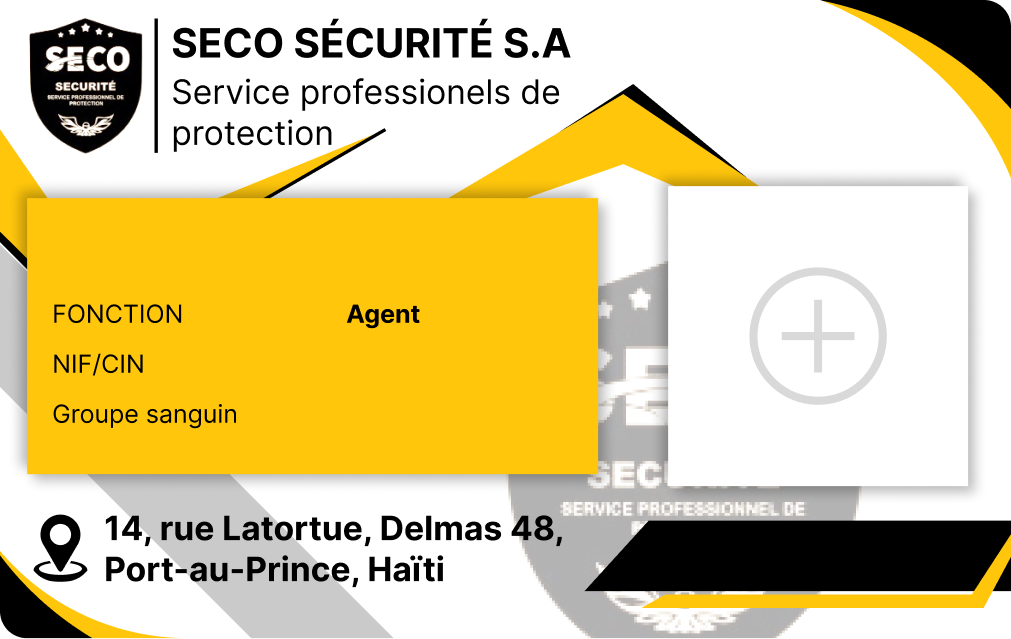
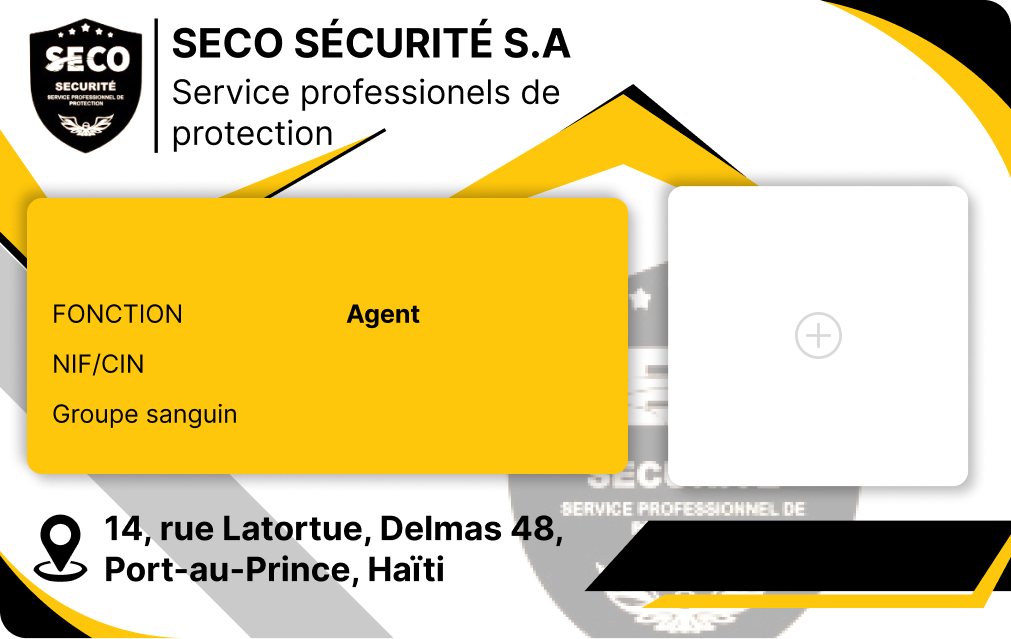
upupnomi

diff --git a/src/app/features/id-card/id-card.html b/src/app/features/id-card/id-card.html
@@ -4,36 +4,39 @@
         <h2 class="text-2xl font-bold text-gray-700">Génération de carte d'identité</h2>
         <span>{{ today() | date}}</span>
     </div>
-    <div class="pb-5 w-full h-[calc(100%-73px)] grid grid-cols-[500px_1fr]">
-            <div class="p-5 border-r border-gray-100">
+    <div class=" w-full h-[calc(100%-73px)] grid grid-cols-[450px_1fr]">
+            <div class="p-5  border-r border-gray-100 overflow-y-auto overflow-x-hidden">
                 <h1 class="text-gray-700 text-[16px] font-bold">Générer une carte d'identité pour un agent de Seco Sécurité</h1>
                 <small class="text-gray-600">Remplissez tous les champs ci-dessous afin de générer correctement le recto de la carte</small><br/>
                 <small class="text-gray-600">Assurez-vous que la photo de l'agent respecte cette dimension : 300x300</small>
                 <form [formGroup]="badgeForm" (ngSubmit)="submit()" class="flex flex-col gap-4 mt-5">
                     <div class="flex flex-col gap-1">
                         <label for="id" class="font-semibold text-gray-700">ID</label>
-                        <input pInputText id="id" formControlName="id"  [fluid]="true" class="flex-auto" placeholder="Entrez l'ID de l'Agent" autocomplete="off" />
+                        <input pInputText id="id" [invalid]="isInvalid('id')" formControlName="id"  [fluid]="true" class="flex-auto" placeholder="Entrez l'ID de l'Agent" autocomplete="off" />
                     </div>
                     <div class="flex flex-col gap-1">
                         <label for="nom" class="font-semibold text-gray-700 ">Nom Complet</label>
-                        <input pInputText id="nom" formControlName="nom"  [fluid]="true" class="flex-auto" placeholder="Entrez le nom complet de l'agent" autocomplete="off" />
+                        <input pInputText id="nom" [invalid]="isInvalid('nom')" formControlName="nom"  [fluid]="true" class="flex-auto" placeholder="Entrez le nom complet de l'agent" autocomplete="off" />
                     </div>
                     <div class="grid grid-cols-2 gap-2">
 
                         <div class="flex flex-col gap-1">
                             <label for="nif" class="font-semibold text-gray-700 ">NIF/CIN</label>
-                            <input pInputText id="nif" formControlName="nif"  [fluid]="true" class="flex-auto" placeholder="Entrez le NIF de l'agent" autocomplete="off" />
+                            <input pInputText id="nif" [invalid]="isInvalid('nif')" formControlName="nif"  [fluid]="true" class="flex-auto" placeholder="Entrez le NIF de l'agent" autocomplete="off" />
                         </div>
                         <div class="flex flex-col gap-1">
                             <label for="groupeSanguin" class="font-semibold text-gray-700 ">Groupe Sanguin</label>
                             
-                            <p-select [options]="items" formControlName="groupeSanguin" optionLabel="Groupe Sanguin" placeholder="Choisissez le groupe sanguin de l'agent" class="w-full md:w-56" />
+                            <p-select [invalid]="isInvalid('groupeSanguin')" optionLabel="name" optionValue="code" [options]="items" formControlName="groupeSanguin"  placeholder="Choisissez le groupe sanguin de l'agent" class="w-full" />
+                            <!-- @if (isInvalid('groupeSanguin')) {
+                                <p-message severity="error" size="small" variant="simple">Le groupe sanguin est obligatoire.</p-message>
+                            } -->
                         </div>
                     </div>
                     <div class="upload-container">
                         
                         
-                        <div class="flex">
+                        
                             <input
                               type="file"
                               id="photoInput"
@@ -46,32 +49,61 @@
                                 <span class="text">Ajouter la photo de l'agent</span>
                                 <small class="text-gray-500">Dimension requise: 300x300</small>
                             </label>
+                            
+                            @if(isPhotoReady$()){
+                                <!-- {{photoPreview}} -->
+                                <img [src]="photoPreview$()"  class="preview" />
+                            }@else {
+                                <p-skeleton width="190px" height="190px" borderRadius="16px"/>
+                            }
 
-                            <img *ngIf="photoPreview" [src]="photoPreview" class="preview" />
-                        </div>
+                            
+                        
 
                     </div>
+                    @if(isLoading$()){
+                        <p-button [disabled]=true [fluid]="true" severity="primary" type="submit" >
+                            <p-progress-spinner strokeWidth="5" ariaLabel="loading" [style]="{ width: '24px', height: '24px' }" />
+                            
+                        </p-button>
+                    }@else{
+                        <p-button label="Générer La Carte" [fluid]="true" severity="primary" type="submit" />
 
-                    <p-button label="Générer La Carte" [fluid]="true" severity="primary"  />
+                        
+                    }
                 </form>
             </div>
-            <div class="p-5">
-                <div class="w-full flex flex-col gap-3">
+            <div class="p-5 overflow-y-auto relative">
+                <div class="w-full flex flex-col justify-between gap-3 pb-15">
+                    
                     <!-- <p-skeleton width="100%" height="auto" /> -->
-                    <div class="flex gap-2">
-                        @if(cardIdPreview){
-                            <img [src]="cardIdPreview" class="w-[50%] drop-shadow-xl drop-shadow-gray-400" alt="carte-id">
-                        }@else{
+                    <div class="flex flex-col items-center w-full gap-5">
+                        <!-- @if(cardIdPreview!=null){ -->
+                         <div class="relative">
+                                @if(isIdCardLoading$()){
 
-                            <img src="img/recto-id-card-4.png" class="w-[50%] drop-shadow-xl drop-shadow-gray-400" alt="carte-id">
-                        }
+                                    <!-- <p-progressbar mode="indeterminate" [style]="{ height: '6px' }" /> -->
+                                    <div class="absolute z-2 left-0 top-0 w-full h-full flex items-center justify-center bg-black/10 rounded-xl">
+                                        <p-progress-spinner strokeWidth="5" ariaLabel="loading" [style]="{ width: '50px', height: '50px' }" />
+                                    </div>
+                                }
+                             <img  [src]="cardIdPreview$()" (load)="isIdCardLoading$.set(false)" (error)="isIdCardLoading$.set(false)"   class="idCardImage z-1 w-full max-w-[500px] drop-shadow-xl drop-shadow-gray-400" alt="carte-id">
+                         </div>
+                            
+                        <!-- }@else{
+                            
+                            <img src="img/recto-id-card-4.png" class="w-full drop-shadow-xl drop-shadow-gray-400" alt="carte-id">
+                        } -->
                         
-                        <img src="img/verso-id-card-4.png" class="w-[50%] drop-shadow-xl drop-shadow-gray-400" alt="carte-id">
+                        <img src="img/verso-id-card-4.png" class="w-full max-w-[500px] drop-shadow-xl drop-shadow-gray-400" alt="carte-id">
 
                     </div>
-                    <a [href]="cardIdPreview" download="badge.png">
-                        <p-button icon="pi pi-download"  class="w-[80%]" label="Télécharger La Carte"  severity="primary"  />
-                    </a>                    
+                    <!-- <a [href]="cardIdPreview" download="badge.png" > -->
+                        <div class="fixed bottom-5 right-5">
+
+                            <p-button icon="pi pi-download" (click)="downloadIdCard()"  class="w-[80%]" [raised]="true" label="Télécharger le recto de la carte"  severity="primary"  />
+                        </div>
+                    <!-- </a>                     -->
                 </div>
             </div>
     </div>

diff --git a/src/app/features/id-card/id-card.ts b/src/app/features/id-card/id-card.ts
@@ -1,4 +1,4 @@
-import { Component, inject } from '@angular/core';
+import { Component, inject, Signal, signal, WritableSignal } from '@angular/core';
 import { CustomDate } from '../../share/custom-date.interface';
 import { CommonModule } from '@angular/common';
 import { Button } from "primeng/button";
@@ -9,6 +9,10 @@ import { MessageService } from 'primeng/api';
 import { Skeleton } from 'primeng/skeleton';
 import { FormControl, FormGroup, ReactiveFormsModule, Validators } from '@angular/forms';
 import { IdCardService } from './id-card.service';
+import { Message } from 'primeng/message';
+import { ProgressSpinner } from 'primeng/progressspinner';
+import { ProgressBar } from 'primeng/progressbar';
+
 interface Item{
   code: string
   name: string
@@ -17,12 +21,17 @@ interface Item{
 
 @Component({
   selector: 'app-id-card',
-  imports: [ReactiveFormsModule, FileUpload, CommonModule, Button, InputTextModule, Select],
+  imports: [ProgressBar, ProgressSpinner,ReactiveFormsModule, CommonModule, Button, InputTextModule, Select, Skeleton],
   templateUrl: './id-card.html',
   styleUrl: './id-card.css',
   providers: [MessageService]
 })
 export class IdCard extends CustomDate{
+
+
+  isLoading$ = signal(false)
+  isPhotoReady$ = signal(false)
+  isIdCardLoading$ = signal(false)
 
   idCardService = inject(IdCardService)
 
@@ -33,6 +42,8 @@ export class IdCard extends CustomDate{
     nif: new FormControl('', Validators.required),
     photo: new FormControl(null, Validators.required)
   })
+
+  formSubmitted = false;
 
   messageService = inject(MessageService)
 
@@ -56,40 +67,84 @@ export class IdCard extends CustomDate{
   //     this.badgeForm.patchValue({ photo: file });
   //   }
   // }
-photoPreview: string | ArrayBuffer | null = null;
-cardIdPreview: string | ArrayBuffer | Blob | null = null
+photoPreview$: WritableSignal<string | null> = signal(null);
+cardIdPreview$: WritableSignal<String | null> = signal("img/recto-id-card-4.png")
 
 onFileChange(event: any) {
   const file = event.target.files[0];
-
+  console.log(file)
   if (!file) return;
 
   this.badgeForm.patchValue({ photo: file });
 
   const reader = new FileReader();
   reader.onload = () => {
-    this.photoPreview = reader.result;
+    this.photoPreview$.set(reader.result as string);
+    this.isPhotoReady$.set(true)
   };
   reader.readAsDataURL(file);
 }
 
 
   submit() {
+    this.formSubmitted = true;
+    
     if (!this.badgeForm.invalid) {
-      
+      this.isLoading$.set(true)
+      // this.cardIdPreview$.set('img/recto-id-card-4.png')
+      this.isIdCardLoading$.set(true)
       const formData = new FormData();
       Object.entries(this.badgeForm.value).forEach(([key, value]) => {
         formData.append(key, value as any);
       });
 
       this.idCardService.createCardId(formData)
-      .subscribe((blob)=>{
-          const url = URL.createObjectURL(blob)
-          this.cardIdPreview = url
+      .subscribe({
+        next:(response:any)=>{
+          this.isLoading$.set(false)
+          console.log(this.isLoading$)
+          this.cardIdPreview$.set(`${response.file}?t=${Date.now()}`);
           
+            // console.log()
+        },
+        error: () => this.isLoading$.set(false)
       })
-
+      this.formSubmitted = false;
+      
       console.log('FormData prêt à être envoyé', formData);
     }
+  }
+
+    isInvalid(controlName: string) {
+        const control = this.badgeForm.get(controlName);
+        return control?.invalid && (control.touched || this.formSubmitted) ;
+    }
+
+  //  downloadIdCard() {
+  //   const a = document.createElement('a');
+  //   a.href = this.cardIdPreview as string; // URL serveur
+
+  //   a.download = 'badge.png';
+  //   document.body.appendChild(a);
+  //   a.click();
+  //   document.body.removeChild(a);
+  //   console.log(a)
+  //  }
+
+  async downloadIdCard() {
+    const response = await fetch(this.cardIdPreview$() as string);
+    const blob = await response.blob();
+
+    const blobUrl = URL.createObjectURL(blob);
+
+    const a = document.createElement('a');
+    a.href = blobUrl;
+    a.download = 'badge.png';
+
+    document.body.appendChild(a);
+    a.click();
+    document.body.removeChild(a);
+
+    URL.revokeObjectURL(blobUrl);
   }
 }

diff --git a/src/app/features/id-card/id-card.css b/src/app/features/id-card/id-card.css
@@ -1,15 +1,19 @@
+
+
+
 .upload-container {
   display: flex;
-  flex-direction: column;
+  /* flex-direction: column; */
+  justify-content: space-between;
   align-items: center;
-  gap: 12px;
+  gap: 10px;
 }
 
 .upload-box {
   /* width: 220px;
   height: 140px; */
-  width: 100%;
-  height: 140px;
+  width: 190px !important;
+  height: 190px;
   border: 2px dashed #ccc;
   border-radius: 16px;
   display: flex;
@@ -36,9 +40,11 @@
 }
 
 .preview {
-  width: 120px;
-  height: 120px;
+  width: 190px;
+  height: 190px;
   object-fit: cover;
-  border-radius: 12px;
+  border-radius: 16px;
   border: 2px solid #ddd;
 }
+
+

diff --git a/src/styles.css b/src/styles.css
@@ -5,6 +5,14 @@
 @import "primeicons/primeicons.css";
 /* @plugin "tailwindcss-primeui"; */
 
+
+:root{
+  --p-progressspinner-color-one: #fff !important;
+  --p-progressspinner-color-two: #fff !important;
+  --p-progressspinner-color-three: #fff !important;
+  --p-progressspinner-color-four: #fff !important;
+}
+
 html, body{
     height: 100%;
     width: 100%;

diff --git a/src/app/features/id-card/id-card.service.ts b/src/app/features/id-card/id-card.service.ts
@@ -10,6 +10,6 @@ export class IdCardService {
   url = inject(UrlService)
 
   createCardId(badgeForm: any){
-    return this.http.post(this.url.serverUrl+"/badges/create", badgeForm,{responseType:'blob'})
+    return this.http.post(this.url.serverUrl+"/badges/create", badgeForm)
   }
 }
